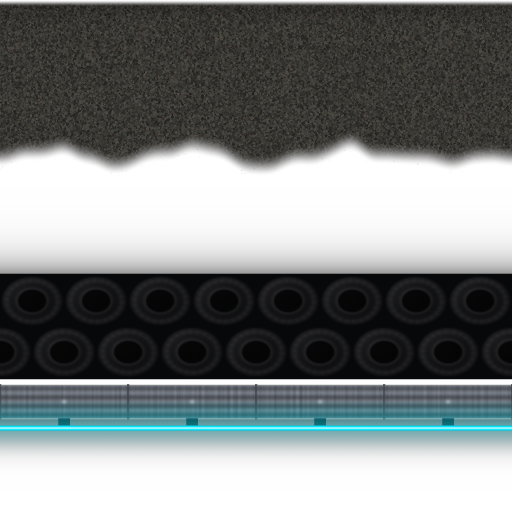
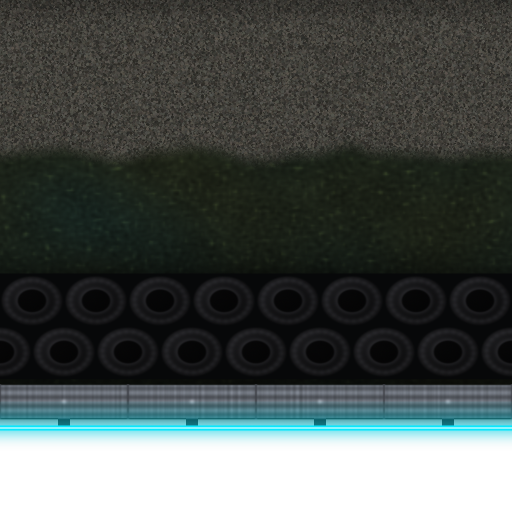
Track pack v1.1 wired (branch, not released): new constants, baked grass, tight strip on concave bends <520 wu, single pool mesh

diff --git a/js/trackpack.js b/js/trackpack.js
@@ -3,8 +3,8 @@
  * on by default (?trackpack=0 = off). Loaded with a dynamic import from pixiRender.js the first time a pack track is
  * built, so other tracks never download the module or its images.
  *  - ground: GD grass on a ground mesh like feltAround(), but its holes follow the OPAQUE parts of the edge strips
- *    (outer: up to the armco at 250 wu, inner: the solid gravel at 44 wu), so ground + strips fill each pixel ~once
- *    (the outer strip's transparent grass gap gets the grass composited into the strip texture at load time)
+ *    (outer: up to the armco at 256 wu, inner: the solid gravel at 80 wu), so ground + strips fill each pixel ~once
+ *    (pack v1.1 bakes the grass into the outer strip)
  *  - asphalt-tile: multiplied into the baked road cross-section texture (zero per-frame cost)
  *  - edge-strip (outer, 320 wu) + edge-strip-inner (infield, 80 wu): static MeshSimple strips under the road, u from arc
  *    length on the strip's inner edge (256 wu per repeat, snapped to whole repeats), v outward, several rows across so
@@ -14,37 +14,31 @@
  *  - flood pools (add) + lamp heads on the outside of corners, ~every POOL_EVERY wu, ≤ POOL_MAX per track, ≤ POOLS_ON_SCREEN
  *    drawn (nearest first); static meshes (mesh shader), only visibility changes per frame
  */
-const BASE = 'assets/track/', OUTER_D = 320, INNER_D = 80, INNER_MIN_GAP = 100, PERIOD = 256;
-// outer strip v columns (v = wu / 320): gravel 0–108, [skip 108–148 wu when not composited], AO 148–172, tyres 172–236,
-// armco 240–262, trim 267.5, glow to OUTER_END (alpha 0.02 there). Ground hole at OUTER_HOLE (armco, alpha 1).
-const OUTER_END = 292, OUTER_HOLE = 250, INNER_HOLE = 44;
-const OUTER_V = [0, 0.11, 0.22, 0.3375, 0.4625, 0.5375, 0.6375, 0.7375, OUTER_HOLE / 320, 0.82, 0.86, OUTER_END / 320];
-const INNER_V = [0, INNER_HOLE / 80, 1];
-const CHUNK = 24, POOL_TRIM = 0.7, FOLD_K = 0.78, SQUEEZE_MIN = 0.35, SQUEEZE_WIN = 250;
+const BASE = 'assets/track/', OUTER_D = 320, INNER_D = 96, INNER_MIN_GAP = 116, PERIOD = 256;
+// pack v1.1: outer strip opaque 0–262 wu (grass baked in), tyres 172–236 (tight: one row 210.4–236), armco 240–262,
+// trim 267.5, tail to 282 (mesh ends at OUTER_END). Ground hole at OUTER_HOLE (armco, alpha 1). Rows sit on band edges.
+const OUTER_END = 284, OUTER_HOLE = 256, INNER_HOLE = 80;
+const OUTER_V = [0, 35, 70, 108, 148, 172, 204, 210.4, 236, 240, 256, 262, 268, 284].map((w) => w / 320);
+const INNER_V = [0, 80 / 96, 1];
+const TIGHT_R = 520; // concave side of bends tighter than this uses edge-strip-tight (single tyre row)
+const CHUNK = 24, POOL_TRIM = 0.92, FOLD_K = 0.78, SQUEEZE_MIN = 0.35, SQUEEZE_WIN = 250;
 // POOLS_ON_SCREEN: most flood pools drawn at once (nearest to the camera win); drop to 4 if a phone dips.
 // Quick on-device override: &pools=N
 export const POOLS_ON_SCREEN = +(((typeof location !== 'undefined' && /[?&]pools=(\d+)/.exec(location.search)) || [, 8])[1]);
-const POOL_EVERY = 700, POOL_MAX = 10, POOL_CURV = 1 / 1500, POOL_ALPHA = 0.55, POOL_CORE = 0.45, POOL_CORE_ALPHA = 0.22, POOL_WU = 768, LAMP_WU = 48;
+const POOL_EVERY = 700, POOL_MAX = 10, POOL_CURV = 1 / 1500, POOL_ALPHA = 0.55, POOL_WU = 600, LAMP_WU = 48;
 export const ASPHALT_BASE = '#3c3c3f', GROUND_BG = 0x1a2117;
 
 function loadImg(src) { return new Promise((res, rej) => { const im = new Image(); im.onload = () => res(im); im.onerror = () => rej(new Error('trackpack: ' + src)); im.src = src; }); }
 function toCanvas(im) { const c = document.createElement('canvas'); c.width = im.naturalWidth; c.height = im.naturalHeight; c.getContext('2d').drawImage(im, 0, 0); return c; }
-/** grass under the strip rows v 0..vStop (grass at 2× density so its 512 px tile repeats with the strip's 256 wu) */
 /** static mesh: Pixi's MeshSimple re-uploads its vertex buffer every frame unless autoUpdate is off */
 function still(m) { m.autoUpdate = false; return m; }
-function underlay(im, grass, vStop) {
-  const c = document.createElement('canvas'); c.width = im.naturalWidth; c.height = im.naturalHeight; const g = c.getContext('2d');
-  const pat = g.createPattern(grass, 'repeat'); pat.setTransform(new DOMMatrix([1, 0, 0, 0.8, 0, 0]));
-  g.fillStyle = pat; g.fillRect(0, 0, c.width, Math.round(c.height * vStop)); g.drawImage(im, 0, 0);
-  return c;
-}
 
 export async function loadTrackPack(P, canvasTexture) {
-  const [grass, asphalt, edge, edgeIn, atlasImg, atlas] = await Promise.all([
-    loadImg(BASE + 'grass-tile.png'), loadImg(BASE + 'asphalt-tile.png'), loadImg(BASE + 'edge-strip.png'),
+  const [grass, asphalt, edge, edgeTight, edgeIn, atlasImg, atlas] = await Promise.all([
+    loadImg(BASE + 'grass-tile.png'), loadImg(BASE + 'asphalt-tile.png'), loadImg(BASE + 'edge-strip.png'), loadImg(BASE + 'edge-strip-tight.png'),
     loadImg(BASE + 'edge-strip-inner.png'), loadImg(BASE + 'track-atlas.png'), fetch(BASE + 'track-atlas.json').then((r) => r.json())]);
   // mipmapped + repeat (all power-of-two); the strips wrap along u only (v stays in 0..1)
-  const tex = { grass: canvasTexture(toCanvas(grass), true, true), edge: canvasTexture(underlay(edge, grass, (OUTER_HOLE + 8) / 320), true, true), edgeIn: canvasTexture(toCanvas(edgeIn), true, true), asphaltImg: asphalt };
+  const tex = { grass: canvasTexture(toCanvas(grass), true, true), edge: canvasTexture(toCanvas(edge), true, true), edgeTight: canvasTexture(toCanvas(edgeTight), true, true), edgeIn: canvasTexture(toCanvas(edgeIn), true, true), asphaltImg: asphalt };
   const atl = canvasTexture(toCanvas(atlasImg), true, false), AW = atlasImg.naturalWidth, AH = atlasImg.naturalHeight;
   const frameUV = (k) => { const f = atlas.frames[k].frame; return [f.x / AW, f.y / AH, (f.x + f.w) / AW, (f.y + f.h) / AH]; };
   let poolPos = [], chunks = [];
@@ -66,7 +60,7 @@ export async function loadTrackPack(P, canvasTexture) {
     return out;
   }
   /** Edge strip on side sgn → { mesh, ring } (ring: flat x,y per track point at v = vHole, for the ground hole). */
-  function edgeStrip(track, sgn, texture, D, inner) {
+  function edgeStrip(track, sgn, texture, D, inner, tightTex) {
     const pts = track.pts, n = pts.length, E0 = track.halfW + 12, cl = clearance(track, sgn, E0, inner ? INNER_MIN_GAP : D);
     const V = inner ? INNER_V : OUTER_V, C = V.length, vHole = inner ? INNER_HOLE / D : OUTER_HOLE / D;
     const R = C - 1; // rows (the grass is composited into the outer strip, so no band is skipped)
@@ -74,9 +68,9 @@ export async function loadTrackPack(P, canvasTexture) {
     // concave bends (the road turns TOWARDS this side, e.g. the far side of an S): a full-depth strip would fold
     // through the bend centre, so the stack is squeezed across (v still 0..1) to keep its outer edge at a radius of at
     // least (1 - FOLD_K)·R, eased in/out over ±SQUEEZE_WIN wu so the barrier bends smoothly instead of kinking
-    const kq = new Float32Array(n);
-    for (let i = 0; i < n; i++) { const p = pts[i], q = pts[(i + 1) % n], cross = p.tx * q.ty - p.ty * q.tx;
-      kq[i] = Math.sign(cross) === sgn && p.radius ? Math.max(SQUEEZE_MIN, Math.min(1, (p.radius * FOLD_K - E0) / D)) : 1; }
+    const kq = new Float32Array(n), tight = new Uint8Array(n);
+    for (let i = 0; i < n; i++) { const p = pts[i], q = pts[(i + 1) % n], cross = p.tx * q.ty - p.ty * q.tx, cc = Math.sign(cross) === sgn && p.radius;
+      kq[i] = cc ? Math.max(SQUEEZE_MIN, Math.min(1, (p.radius * FOLD_K - E0) / D)) : 1; tight[i] = cc && p.radius < TIGHT_R ? 1 : 0; }
     const step = track.length / n, wn = Math.max(1, Math.round(SQUEEZE_WIN / step)), kmin = new Float32Array(n), ks = new Float32Array(n);
     for (let i = 0; i < n; i++) { let m = 1; for (let j = -wn; j <= wn; j++) m = Math.min(m, kq[(i + j + n) % n]); kmin[i] = m; }
     for (let i = 0; i < n; i++) { let a = 0; for (let j = -wn; j <= wn; j++) a += kmin[(i + j + n) % n]; ks[i] = a / (2 * wn + 1); }
@@ -95,14 +89,17 @@ export async function loadTrackPack(P, canvasTexture) {
     for (let i = 0; i < uv.length; i += 2) uv[i] *= f;
     // split into chunks of CHUNK track points, each culled against the view per frame (software GL and weak GPUs
     // pay for every submitted triangle, even off screen)
-    const cont = new P.Container();
+    const cont = new P.Container(); let nTight = 0;
     for (let i0 = 0; i0 < n; i0 += CHUNK) {
       const i1 = Math.min(n, i0 + CHUNK), m = i1 - i0, cv = vert.slice(i0 * C * 2, (i1 + 1) * C * 2), cu = uv.slice(i0 * C * 2, (i1 + 1) * C * 2), ci = new Uint32Array(m * R * 6);
       for (let i = 0; i < m; i++) for (let r = 0; r < R; r++) { const a0 = i * C + r, b0 = a0 + C; ci.set([a0, a0 + 1, b0, a0 + 1, b0 + 1, b0], (i * R + r) * 6); }
       let x0 = 1e9, y0 = 1e9, x1 = -1e9, y1 = -1e9; for (let k = 0; k < cv.length; k += 2) { x0 = Math.min(x0, cv[k]); x1 = Math.max(x1, cv[k]); y0 = Math.min(y0, cv[k + 1]); y1 = Math.max(y1, cv[k + 1]); }
-      const mesh = still(new P.MeshSimple({ texture, vertices: cv, uvs: cu, indices: ci })); cont.addChild(mesh); chunks.push({ mesh, x0, y0, x1, y1 });
+      // tight texture if any point in this chunk or half a chunk either side qualifies (hysteresis, no flicker)
+      let tq = false; if (tightTex) for (let j = i0 - (CHUNK >> 1); j < i1 + (CHUNK >> 1) && !tq; j++) tq = !!tight[(j + n) % n];
+      if (tq) nTight++;
+      const mesh = still(new P.MeshSimple({ texture: tq ? tightTex : texture, vertices: cv, uvs: cu, indices: ci })); cont.addChild(mesh); chunks.push({ mesh, x0, y0, x1, y1 });
     }
-    return { mesh: cont, ring };
+    return { mesh: cont, ring, nTight };
   }
   /** Outer side: the side whose offset polygon is larger (same test as feltAround). */
   function outerSign(track) {
@@ -153,14 +150,11 @@ export async function loadTrackPack(P, canvasTexture) {
     }
     poolPos = pools;
     const out = [];
-    // per pool a tiny static container so view() can cap how many are drawn (POOLS_ON_SCREEN): the pool octagon at
-    // POOL_ALPHA plus a smaller copy (POOL_CORE of its size, POOL_CORE_ALPHA) for a slightly brighter core
+    // per pool a tiny static mesh so view() can cap how many are drawn (POOLS_ON_SCREEN); the core is baked (pack v1.1)
     if (pools.length) {
       const pc = new P.Container();
       for (const q of pools) {
-        const box = new P.Container(), pm = octs([q], 'flood-pool'), core = octs([{ x: q.x, y: q.y, size: q.size * POOL_CORE }], 'flood-pool');
-        pm.blendMode = core.blendMode = 'add'; pm.alpha = POOL_ALPHA; core.alpha = POOL_CORE_ALPHA;
-        box.addChild(pm, core); q.mesh = box; pc.addChild(box);
+        const pm = octs([q], 'flood-pool'); pm.blendMode = 'add'; pm.alpha = POOL_ALPHA; q.mesh = pm; pc.addChild(pm);
       }
       out.push(pc);
     }
@@ -172,7 +166,8 @@ export async function loadTrackPack(P, canvasTexture) {
     /** bottom layers (replace feltAround; under the shadow strips / road): ground, inner strip, outer strip */
     under(track) {
       const so = outerSign(track), out = []; chunks = [];
-      const inS = edgeStrip(track, -so, tex.edgeIn, INNER_D, true), outS = edgeStrip(track, so, tex.edge, OUTER_D, false);
+      const inS = edgeStrip(track, -so, tex.edgeIn, INNER_D, true), outS = edgeStrip(track, so, tex.edge, OUTER_D, false, tex.edgeTight);
+      if (typeof window !== 'undefined') window.__tpTight = outS.nTight;
       out.push(ground(track, Array.from(outS.ring), Array.from(inS.ring)), inS.mesh, outS.mesh);
       return out;
     },

diff --git a/assets/track/README.md b/assets/track/README.md
@@ -1,5 +1,7 @@
 # Night-circuit track pack (approved paint-over v1/v2 ground)
 
+**Version 1.1 (2026-10-07).** Same filenames as v1.0, plus a new `edge-strip-tight.png`. See [v1.1 changes](#v11-changes-and-what-to-update-in-jstrackpackjs) for the five constants in `js/trackpack.js` that need to change.
+
 This pack recreates the look Callum approved in `docs/shots/87-gd-portrait-paintover-v1/v2`:
 - dark night grass
 - a gravel run-off strip next to the kerbs
@@ -7,7 +9,7 @@ This pack recreates the look Callum approved in `docs/shots/87-gd-portrait-paint
 - warm floodlight pools
 - neutral grey asphalt with a darker racing line
 
-Run `python3 build_track.py` to regenerate everything, including the preview `docs/shots/88-track-pack-preview.png`. The build is seeded (seed 88) and uses numpy, scipy and Pillow.
+Run `python3 build_track.py` to regenerate everything, including the preview `docs/shots/88b-track-pack-v11-preview.png`. The v1.0 preview `88-track-pack-preview.png` is kept for comparison. The build is seeded (seed 88) and uses numpy, scipy and Pillow.
 
 ## Units (matched to `js/pixiRender.js` / `js/render.js`)
 - `halfW` is the half-width of the drivable road, including the kerb. It is 270 (Neon Loop), 190 (Gridlock), 175 (Razor) and 160 (Cargo).
@@ -19,33 +21,73 @@ Run `python3 build_track.py` to regenerate everything, including the preview `do
 ## Assets
 | file | size | KB | blend | tint | use |
 |---|---|---|---|---|---|
-| `grass-tile.png` | 512×512 RGB | 282 | normal | none (bg colour `#1a2117`) | Ground. Seamless both ways. **512 px = 512 wu**, world-anchored. |
-| `asphalt-tile.png` | 512×512 8-bit grey | 199 | **multiply** (bake) | none | Neutral grain, mean ≈ 0.86. Multiply it over an asphalt base of `#3c3c3f`. **Draw at 0.5 scale: 512 px = 256 wu = ROAD_PERIOD.** |
-| `edge-strip.png` | 512×512 RGBA | 253 | normal | none | Outer-edge stack. **x = along the track: 512 px = 256 wu (2 px/wu), wraps.** **y = outward from E0: 512 px = 320 wu (1.6 px/wu).** Transparent beyond the stack. |
-| `edge-strip-inner.png` | 512×128 RGBA | 109 | normal | none | Infield edge, gravel only (y 0–80 wu at 1.6 px/wu). Same x mapping. |
-| `gravel-tile.png` | 256×256 RGB | 125 | normal | none | **Canvas fallback only.** The same gravel, seamless both ways (256 px = 128 wu). |
-| `flood-pool.png` | 256×256 RGBA | 52 | **add** | none (warm-neutral baked, about `#ffd09a`) | Floodlight pool. RGB = colour, A = falloff. |
-| `lamp-head.png` | 64×64 RGBA | 5 | normal | none | Top-down lamp fixture: pole cap, arm, housing, lit lens with a bright core and a small glow. |
-| `track-atlas.png` / `.json` | 512×256 | 63 | n/a | n/a | Pixi v8 spritesheet with frames `flood-pool` and `lamp-head`, both anchored at the centre. |
+| `grass-tile.png` | 512×512 RGB | 282 | normal | none (bg colour `#1a2117`) | Ground. Seamless both ways. **512 px = 512 wu**, world-anchored. Unchanged in v1.1. |
+| `asphalt-tile.png` | 512×512 8-bit grey | 198 | **multiply** (bake) | none | Neutral grain, mean ≈ 0.86. Multiply it over an asphalt base of `#3c3c3f`. **Draw at 0.5 scale: 512 px = 256 wu = ROAD_PERIOD.** Unchanged. |
+| `edge-strip.png` | 512×512 RGBA | 303 | normal | none | Outer-edge stack. **x = along the track: 512 px = 256 wu (2 px/wu), wraps.** **y = outward from E0: 512 px = 320 wu (1.6 px/wu).** **v1.1: opaque from 0 to 262 wu** (grass baked into the gap), soft tail to 282, transparent after. |
+| `edge-strip-tight.png` | 512×512 RGBA | 307 | normal | none | **New.** Same as `edge-strip` but with a single row of thinner tyres (25.6 wu). It's for the concave side of bends under ~520 wu radius. Same mapping and offsets. |
+| `edge-strip-inner.png` | 512×128 RGBA | 131 | normal | none | Infield edge, gravel only. **v1.1: y = 0–96 wu (128 px, 1.333 px/wu); this mapping changed.** Solid to 80 wu, then a soft edge. Same x mapping. |
+| `gravel-tile.png` | 256×256 RGB | 131 | normal | none | **Canvas fallback only.** The same gravel (v1.1: 15% lighter), seamless both ways (256 px = 128 wu). |
+| `flood-pool.png` | 256×256 RGBA | 24 | **add** | none (baked: warm-white core `#ffe2be`, warm peach tail `#ffb496`) | Floodlight pool. RGB = colour, A = falloff. **v1.1: the falloff now fills the sprite** (alpha 0 at 92% of the half-size, previously ~70%), with a brighter core. Designed for **alpha 0.55**. |
+| `lamp-head.png` | 64×64 RGBA | 4 | normal | none | Top-down lamp fixture: pole cap, arm, housing, lit lens with a bright core and a small glow. Unchanged. |
+| `track-atlas.png` / `.json` | 512×256 | 32 | n/a | n/a | Pixi v8 spritesheet with frames `flood-pool` and `lamp-head`, both anchored at the centre. Same frame rects as v1.0; meta version is `1.1`. |
 
-**Why the tiles and the strip are separate files:** they must wrap (`addressMode: 'repeat'`) and be power-of-two. An atlas frame can't wrap, so only the non-repeating sprites are in the atlas.
+**Why the tiles and the strips are separate files:** they must wrap (`addressMode: 'repeat'`) and be power-of-two. An atlas frame can't wrap, so only the non-repeating sprites are in the atlas.
 
-### Edge-strip layout (wu outward from E0)
+All offsets below are in wu outward from **E0 = halfW + 12**. Each texture row was measured from the PNG alpha, so these are the real boundaries.
+
+### Outer edge strip `edge-strip.png` (v = wu / 320)
+| band | wu | alpha |
+|---|---|---|
+| gravel, darker compacted wear for the first 18 wu (the road covers 0–4) | 0 → edge | 1 |
+| gravel edge: centre wanders 91–101 wu (seamless), each side softens over ±7 | fully gravel to ≥ 84, fully grass from ≤ 108 | 1 |
+| loose stones on the grass | to ~111 | 1 |
+| **baked grass** (the grass tile's grass at true scale, 256 wu period along x). AO darkens it toward the wall from ~140 | ~96 → 172 | **1** |
+| tyre wall: two staggered rows of 32 wu tyres, 8 per 256 wu | **172 → 236** | 1 |
+| shadowed gap (dark grass) | 236 → 240 | 1 |
+| steel W-beam armco (bolts, posts and joints every 64 wu) | **240 → 262** | 1 (**end of the opaque region: 262**) |
+| posts (behind the rail) | 261 → 268, 6 wu wide | 1 |
+| AO outside the rail | 262 → ~280 | ≤ 0.5, fading |
+| cyan trim: 3 wu core, white-hot centre | **266 → 269 (centre 267.5)** | 1 |
+| cyan glow: wide (σ 8.5 wu) over the rail, short (σ 4.5 wu) outside | 251 → 282 | ≤ 0.42 |
+| **last non-zero texel** | **282** | |
+| transparent (don't draw it: end the mesh at 284) | 284 → 320 | 0 |
+
+Within the drawn 0–284 wu, only **22 wu (7.7%)** is non-opaque. In v1.0, 76 wu of the grass gap plus ~40 wu of the tail were transparent.
+
+### Tight edge strip `edge-strip-tight.png` (v = wu / 320)
+It is identical to `edge-strip` from 0 to ~137 wu and from 236 wu outward: same gravel texels, armco, posts, trim and tail. Only these bands change:
 | band | wu |
 |---|---|
-| fade-in over the road's soft edge | 0–4 |
-| gravel (ragged, seamless edge, ±4 wu) | 4–~96 |
-| loose stones | to ~106 |
-| transparent: the grass tile shows through, with soft AO building toward the wall | 96–172 |
-| tyre wall: two staggered rows of 32 wu tyres, 8 per 256 wu | 172–236 |
-| dark gap | 236–240 |
-| steel W-beam armco (bolts and posts every 64 wu, beam joints every 64 wu) | 240–262 |
-| post caps | 261–268 |
-| cyan trim (3 wu core, white-hot centre; normal-blend glow to about ±22 wu) | centred at 267.5 |
-| outer AO / glow tail | to about 300 |
-| transparent | 300–320 |
+| baked grass, extended, with AO toward the single row from ~176 | ~96 → 210.4 |
+| **single tyre row: 25.6 wu tyres, 10 per 256 wu**, against the rail | **210.4 → 236** |
 
-The lighting is symmetric (straight down), so the same texture works on either side of the road, for left and right corners alike. You don't need to flip it. Just build the strip with lateral offsets of `sgn * (E0 … E0 + 320)` for the side you want.
+**When to use it:** on the side of the road that faces the bend centre (the concave side; in `edgeStrip()` that's `Math.sign(cross) === sgn`) where the centreline `radius < 520` wu.
+- There the strip gets squeezed: `kq` drops to ~0.5 for Gridlock. Two rows of 32 wu tyres turn into a mush of tiny ovals, and one row reads cleanly.
+- See the bottom-right panels of `88b`. They show an R = 470 bend with k = 0.51.
+
+**How to switch:** pick the texture per strip chunk (`CHUNK` points).
+- Use `edge-strip-tight` if any point in the chunk qualifies. Add one chunk of hysteresis so short wiggles don't flicker between textures.
+- Gravel, grass near the road, armco and trim are pixel-identical in both textures, so a switch only changes the tyre band.
+- Switch at a whole repeat (`u` integer, s ≡ 0 mod 256 wu) if you can. There, the outer tyre row and the single row both end on a tyre boundary.
+- It's one extra 512×512 texture and no extra draw calls beyond the chunk split you already have.
+
+### Inner edge strip `edge-strip-inner.png` (v = wu / **96**)
+| band | wu | alpha |
+|---|---|---|
+| gravel, darker compacted wear for the first 18 wu | 0 → 80 | **1 (solid to 81.0 measured)** |
+| soft ragged edge: centre wanders 84–89 wu, softens over ±3 | 81 → 92 | 1 → 0 |
+| loose stones | to 94.5 | sparse |
+| transparent | 95 → 96 | 0 |
+
+The lighting is symmetric (straight down), so the same textures work on either side of the road and in left and right corners alike. You don't need to flip anything.
+
+### Gravel value (v1.1)
+Gravel base colour went from `#373633` to `#3f3e3a` (×1.15). Measured mean luminance:
+- `gravel-tile`: 54.7 → **63.0** (+15.1%)
+- strip gravel band: 54.8 → **63.1**
+- grass: ≈ 31
+
+Gravel now reads as a separate band at ZOOM_FAR 0.24.
 
 ## Pixi v8 wiring (per track, built once, behind the flag)
 Draw order, bottom to top:
@@ -59,7 +101,7 @@ Draw order, bottom to top:
 8. lamp heads
 9. cars and FX
 
-Putting the pools above the road is fine: they sit at least 100 wu outside it, and only their tails reach the kerb.
+Putting the pools above the road is fine: their centre is 170 wu outside E0, and the 276 wu lit radius reaches ~100 wu onto the road edge as a faint spill. That's intended: it lights the kerb.
 
 ```js
 // 1) grass: reuse feltAround() unchanged; it's already world-anchored at 512 wu, so just swap the texture
@@ -74,7 +116,7 @@ trackLayer.addChild(feltAround(track, grass));  renderer.background.color = 0x1a
 
 // 3) edge strips: one mesh per side. Use the existing strip() idea, but texture x runs ALONG the track,
 //    and u comes from arc length measured on the strip's own inner edge, so tyres don't stretch in corners.
-function edgeStrip(track, sgn, tex, depth /* 320 outer, 80 inner */) {
+function edgeStrip(track, sgn, tex, depth /* 320 outer (end mesh at 284), 96 inner */) {
   const pts = track.pts, n = pts.length, E0 = track.halfW + 12;
   const vert = new Float32Array((n + 1) * 4), uv = new Float32Array((n + 1) * 4), idx = new Uint32Array(n * 6);
   let s = 0, px, py;
@@ -93,7 +135,7 @@ function edgeStrip(track, sgn, tex, depth /* 320 outer, 80 inner */) {
 // The texture is anisotropic (2 px/wu along, 1.6 px/wu across), so don't use MeshRope's
 // aspect-preserving textureScale. A MeshSimple with explicit uvs (above) is the correct and cheapest choice.
 ```
-In tight hairpins (radius < E0 + 320) the outer side never self-intersects, but the inner side can. That's why the inner side uses the 80 wu `edge-strip-inner`. Where the infield is narrower than about 100 wu, skip the inner strip entirely.
+In tight hairpins (radius < E0 + 320) the outer side never self-intersects, but the inner side can. That's why the inner side uses the 96 wu `edge-strip-inner`. Where the infield is narrower than about 116 wu, skip the inner strip entirely.
 
 **Racing line (not baked):** build a second static MeshSimple strip along an offset path, about 0.45·halfW wide, using a 64×4 gradient texture (transparent → `rgba(0,0,0,0.30)` → transparent) like `shadowTex`.
 - Per point: `lat = clamp(-k·curvature·halfW, -0.55·halfW, 0.55·halfW)`, with `k` chosen so a typical corner reaches about 0.5·halfW at the apex.
@@ -104,7 +146,11 @@ In tight hairpins (radius < E0 + 320) the outer side never self-intersects, but 
 - Walk the centreline. Where |curvature| > 1/1500 wu⁻¹, the outer side of the corner is `sgn = -sign(curvature)`.
 - Every **~700 wu** of arc length inside such a corner, place:
   - a **lamp-head** at lateral `sgn·(E0 + 302)`, scale 0.75 (48 wu), rotated so the lens faces the road
-  - a **flood-pool** at `sgn·(E0 + 170)`, scale **3.0** (768 wu across), `blendMode = 'add'`, **alpha 0.30** (0.25–0.40 is fine)
+  - a **flood-pool** at `sgn·(E0 + 170)`, **600 wu across (v1.1; was 768)**, `blendMode = 'add'`, **alpha 0.55**
+- The v1.1 sprite lights out to 0.92 × 300 = **276 wu** radius, about the same footprint as v1.0 at 768 wu, whose light died at ~70%. So it uses the same pixels with no wasted texels.
+- Trim octagon: **inscribed radius 0.92** (`POOL_TRIM = 0.92`). Its circumradius is 0.996, so it stays inside the frame.
+- **The brighter core is baked in now**, so drop the second `POOL_CORE` copy (one fewer additive layer per pool).
+- On green grass the tail stays warm (hue ~42°) instead of olive (v1.0 tail: hue ~80°). The core is a warm cream (~`#a69f83` over grass at α 0.55).
 - **Max 10 per track.** Keep **≤ 8 pools on screen.** Pixi's `cullable = true` on the pool sprites is enough.
 
 ## Performance notes (55+ FPS on phones)
@@ -112,11 +158,14 @@ In tight hairpins (radius < E0 + 320) the outer side never self-intersects, but 
   - The grass replaces the existing felt texture on the same mesh, so it costs nothing extra.
   - The asphalt is baked into the existing road cross-section texture, so it costs nothing per frame.
   - The racing line is one thin strip.
-- **Edge strips:** at most 2 meshes (one per side), static, built once. They overdraw about 320 wu on the outside only, and half of that (the grass gap) is transparent.
-  - If fill rate is tight, split the outer strip in two: v 0–106 wu (gravel) and v 150–300 wu (wall). That skips the transparent gap.
-- **Pools:** additive, at most 8 on screen. Each is roughly a 768 wu quad. At ZOOM_FAR 0.24 they cover ~180 px each, which is cheap. They use a separate blend mode, so expect one batch break.
+- **Edge strips:** at most 2 meshes (one per side), static, built once.
+  - v1.1: the outer strip is opaque from 0 to 262 wu and fully transparent past 282. End the mesh at **284 wu** instead of 292–320.
+  - The ground hole can sit anywhere in 250–258 wu, and the ground never needs to draw under the strip.
+  - With the grass baked in, the load-time `underlay()` composite does nothing. It's harmless, but you can delete it.
+  - If the GPU path supports it, the outer strip's 0–262 rows could even go in a separate non-blended (opaque) mesh. That's optional.
+- **Pools:** additive, at most 8 on screen. Each is a 600 wu octagon (inscribed r 276 wu): at ZOOM_FAR 0.24 that's ~130 px. Dropping the core copy halves the additive layers. They use a separate blend mode, so expect one batch break.
 - Use mipmaps on all textures (`autoGenerateMipmaps`), because the zoom goes as far out as 0.24. All files are power-of-two for exactly this reason, and for wrap.
-- Texture budget: about 1.1 MB of PNG on disk for the Pixi path (grass, strips, atlas), ~2.8 MB in GPU memory (+⅓ with mips). The asphalt is only used at bake time.
+- Texture budget: about 1.1 MB of PNG on disk for the Pixi path (grass, the two strips, atlas), plus 0.3 MB if `edge-strip-tight` is used. In GPU memory that's ~2.8 MB (+1 MB with tight, +⅓ with mips). The asphalt is only used at bake time.
 
 ## Canvas fallback (`render.js`)
 - **Ground:** `ctx.createPattern(grassImg,'repeat')` in `trackTex()`, with no transform (512 px = 512 wu).
@@ -126,8 +175,26 @@ In tight hairpins (radius < E0 + 320) the outer side never self-intersects, but 
   2. armco `#5f646c`, width `2·(E0+266)`
   3. tyre band `#0d0e10`, width `2·(E0+240)`, plus `setLineDash([28,4])` for a hint of tyres
   4. grass `createPattern(grassImg)`, width `2·(E0+172)` (restores the grass gap)
-  5. gravel `createPattern(gravelImg)`, width `2·(E0+96)`
+  5. gravel `createPattern(gravelImg)`, width `2·(E0+96)` (it's the same on the infield; the v1.1 inner strip is solid to 80 and fades out by 92)
 
   The road strokes then cover the inside. This puts the barrier on the infield side too, which is acceptable for the fallback.
   For more speed, bake these strokes once into an offscreen canvas per track at 0.5 resolution and `drawImage` it.
-- **Pools:** `globalCompositeOperation='lighter'`, `globalAlpha 0.3`, `drawImage(poolImg)` at 768 wu, ≤ 4 on screen. Then draw the lamp heads normally.
+- **Pools:** `globalCompositeOperation='lighter'`, `globalAlpha 0.55`, `drawImage(poolImg)` at 600 wu, ≤ 4 on screen. Then draw the lamp heads normally.
+
+## v1.1 changes and what to update in `js/trackpack.js`
+Changes:
+1. **flood-pool:** reframed so the falloff fills the sprite (alpha 0 at r = 0.92), with a brighter baked core. The colour runs from a warm-white core to a peach tail, which keeps green grass warm rather than olive. Designed for α 0.55 at 600 wu.
+2. **edge-strip:** grass is baked into the gravel→tyre gap, so it's opaque 0–262 wu. The soft tail is cut to 282 wu (was ~300).
+3. **edge-strip-inner:** solid gravel to 80 wu (was ~46), with a soft edge from 81 to 92. The texture now spans 96 wu.
+4. **New edge-strip-tight:** one 25.6 wu tyre row (210.4–236) for the concave side of bends with R < 520.
+5. **Gravel:** +15% value in all strips and `gravel-tile`.
+
+Constants to change (the old values still load, but they'd crop or misplace things):
+```js
+const OUTER_D = 320, INNER_D = 96, INNER_MIN_GAP = 116;            // INNER_D was 80 (texture now spans 96 wu)
+const OUTER_END = 284, OUTER_HOLE = 256, INNER_HOLE = 80;           // were 292 / 250 / 44
+const OUTER_V = [0, 35, 70, 108, 148, 172, 204, 210.4, 236, 240, 256, 262, 268, 284].map((w) => w / 320); // iso-v rows on band edges
+const INNER_V = [0, 80 / 96, 1];
+const POOL_TRIM = 0.92, POOL_WU = 600, POOL_ALPHA = 0.55;           // and remove the POOL_CORE copy (core is baked)
+// optional: delete underlay() (grass is baked now); load 'edge-strip-tight.png' and use it per chunk on concave bends with radius < 520
+```
